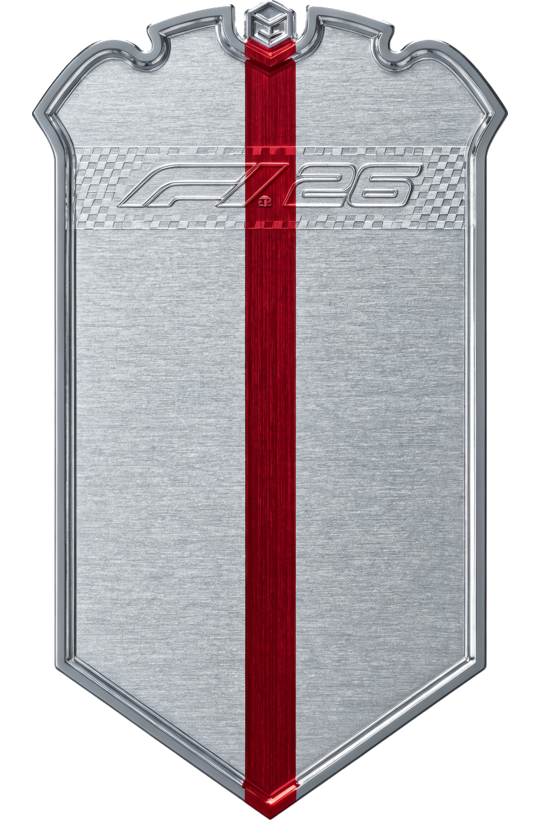
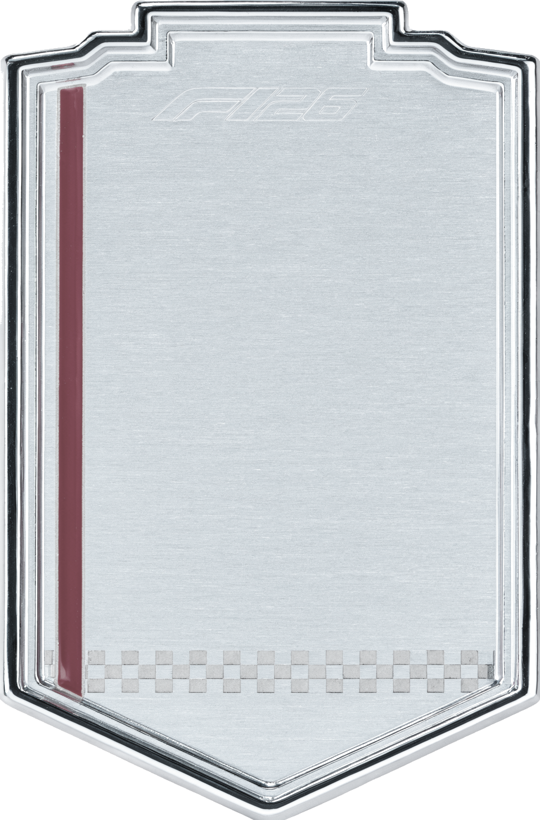
feat(cards,landing): distinct wide struck-metal plates, feather sweet-spot, multi-GOAT, landing lineup
- seven DISTINCT crest cuts (rounded/single-notch/twin-scallop/asymmetric/
  chamfer/crown/notched-crown), re-generated wide to fill the card width like
  the founder crest; correct alloys (copper bronze, true violet sector, cool
  platinum silver), ornate damask champion + subtle holo whisper, clean steel
- portrait feather sweet-spot (face+shoulders natural, no rectangle leak) and
  a per-ink contrast scrim behind the identity column so RTG/NO./flag/pill read
  cleanly on any plate art
- GOAT tier now honours multiple legends (torvalds ceiling 98 + gaearon/
  sindresorhus/antfu) via GOAT_LOGINS
- landing fan shows PewDiePie + NetworkChuck with real photo portraits
  (fetched from YouTube; GitHub avatars were logos/identicons)

diff --git a/components/DriverCard26.tsx b/components/DriverCard26.tsx
@@ -1,6 +1,6 @@
 import { useId } from "react";
 import type { CardPreview, StatKey } from "@/lib/racing/types";
-import { STATS, STAT_LABELS, GOAT_LOGIN } from "@/lib/racing/constants";
+import { STATS, STAT_LABELS, GOAT_LOGIN, GOAT_LOGINS } from "@/lib/racing/constants";
 import { resolveCardTheme, rgba } from "./finishTheme";
 import { flagUrl } from "@/lib/flagUrl";
 
@@ -58,9 +58,9 @@ function avatarFor(url: string): string {
   return url.replace(/([?&])s=\d+/, "$1s=640");
 }
 
-const FEATHER = "radial-gradient(ellipse 70% 84% at 52% 40%, #000 56%, transparent 88%)";
+const FEATHER = "radial-gradient(ellipse 70% 82% at 52% 40%, #000 54%, transparent 82%)";
 const FADE_TOP = "linear-gradient(to bottom, transparent 0%, #000 18%)";
-const FADE_BOTTOM = "linear-gradient(to bottom, #000 72%, transparent 100%)";
+const FADE_BOTTOM = "linear-gradient(to bottom, #000 76%, transparent 100%)";
 
 export function DriverCard26({ card, eager = false }: { card: CardPreview; eager?: boolean }) {
   const gid = useId().replace(/:/g, "");
@@ -71,10 +71,15 @@ export function DriverCard26({ card, eager = false }: { card: CardPreview; eager
   const nameSize = last.length > 11 ? 8.0 : last.length > 8 ? 9.8 : 11.0;
   const avatar = avatarFor(card.avatarUrl);
   const founder = card.finish === "founder" || !!card.founder;
-  const goat = !founder && (card.login.toLowerCase() === GOAT_LOGIN || (card.number === 1 && card.rtg >= 97));
+  const goat = !founder && (GOAT_LOGINS.includes(card.login.toLowerCase()) || card.login.toLowerCase() === GOAT_LOGIN || (card.number === 1 && card.rtg >= 97));
   const plate = founder ? { bg: FOUNDER_PLATE, ink: FOUNDER_INK } : goat ? GOAT_PLATE : (PLATES[card.finish] ?? PLATES.podium);
   const ink = plate.ink;
   const label = rgba(ink, 0.68);
+  // contrast scrim for the identity column: lift light ink with a dark wash,
+  // dark ink with a light wash, so the rating/flag read on any plate art.
+  const inkNum = parseInt(ink.replace("#", ""), 16);
+  const inkLum = (0.299 * ((inkNum >> 16) & 255) + 0.587 * ((inkNum >> 8) & 255) + 0.114 * (inkNum & 255)) / 255;
+  const scrimRGB = inkLum > 0.5 ? "0,0,0" : "255,255,255";
   const plateMask = `url("${plate.bg}")`;
   const clipId = `clip-${gid}`;
   const chip = goat ? "THE GOAT" : card.finishLabel;
@@ -86,7 +91,7 @@ export function DriverCard26({ card, eager = false }: { card: CardPreview; eager
           {/* eslint-disable-next-line @next/next/no-img-element */}
           <img src={avatar} alt={card.name} width={640} height={640} loading={eager ? "eager" : "lazy"} decoding="async" fetchPriority={eager ? "high" : "auto"}
             style={{ width: "100%", height: "100%", objectFit: "cover", objectPosition: "center 22%", filter: "saturate(1.12) contrast(1.06) brightness(1.03)" }} />
-          <div aria-hidden style={{ position: "absolute", inset: 0, background: `radial-gradient(ellipse 72% 76% at 52% 40%, transparent 46%, ${rgba(livery, 0.3)} 78%, rgba(58,46,22,0.42))` }} />
+          <div aria-hidden style={{ position: "absolute", inset: 0, background: `radial-gradient(ellipse 72% 78% at 52% 40%, transparent 46%, ${rgba(livery, 0.24)} 80%, rgba(58,46,22,0.36) 96%)` }} />
         </div>
       </div>
     </div>
@@ -116,6 +121,10 @@ export function DriverCard26({ card, eager = false }: { card: CardPreview; eager
       {!founder && (
         <div aria-hidden style={{ position: "absolute", inset: 0, background: livery, mixBlendMode: "color", opacity: 0.1, WebkitMaskImage: plateMask, maskImage: plateMask, WebkitMaskSize: "100% 100%", maskSize: "100% 100%" }} />
       )}
+
+      {/* soft contrast scrim behind the identity column so RTG/NO./flag/pill
+          read cleanly whatever the plate art carries underneath */}
+      <div aria-hidden style={{ position: "absolute", left: 0, top: 0, width: "30%", height: "52%", background: `linear-gradient(90deg, rgba(${scrimRGB},0.3) 0%, rgba(${scrimRGB},0.12) 62%, transparent 100%)`, WebkitMaskImage: plateMask, maskImage: plateMask, WebkitMaskSize: "100% 100%", maskSize: "100% 100%", zIndex: 2, pointerEvents: "none" }} />
 
       {/* portrait masked into the plate's alpha, feathered, full colour */}
       <div style={{ position: "absolute", inset: 0, WebkitMaskImage: plateMask, maskImage: plateMask, WebkitMaskSize: "100% 100%", maskSize: "100% 100%" }}>{portrait}</div>

diff --git a/lib/racing/samples.ts b/lib/racing/samples.ts
@@ -113,14 +113,26 @@ export const SAMPLE_CARDS: CardPreview[] = [
     finishLabel: "CHAMPION",
     constructor: { language: null, name: "JavaScript GP", code: "JS", color: "#f7df1e", ink: "#15161a" },
   },
+  {
+    login: "NetworkChuck",
+    name: "NetworkChuck",
+    avatarUrl: "/drivers/networkchuck.webp",
+    country: "us",
+    stats: { exp: 84, rac: 88, awa: 70, pac: 90, tyr: 78, wet: 82 },
+    rtg: 90,
+    number: 42,
+    finish: "champion",
+    finishLabel: "CHAMPION",
+    constructor: { language: null, name: "Python GP", code: "PY", color: "#4b8bbe", ink: "#ffffff" },
+  },
 ];
 
 // The four on the hero fan, front to back. The GOAT leads. Only single-subject
 // photographic headshots fan well — logos, collages and pet photos read as
 // broken portraits on the metal, so the shop window picks clean faces.
 export const FAN_CARDS: { card: CardPreview; label?: "GOAT" | "LEGEND" }[] = [
-  { card: SAMPLE_CARDS[7] },
-  { card: SAMPLE_CARDS[8] },
+  { card: SAMPLE_CARDS[1] },
+  { card: SAMPLE_CARDS[9] },
   { card: SAMPLE_CARDS[3], label: "LEGEND" },
   { card: SAMPLE_CARDS[0], label: "GOAT" },
 ];

diff --git a/lib/racing/constants.ts b/lib/racing/constants.ts
@@ -53,6 +53,9 @@ export const STAT_COPY: Record<StatKey, { what: string; scouted: string }> = {
 // The GOAT invariant: Torvalds is the ceiling at 98. Every other card is
 // capped at 95, which is also the founder's fixed rating.
 export const GOAT_LOGIN = "torvalds";
+// The GOAT tier honours multiple legends — Torvalds is the ceiling (98), the
+// rest of the pantheon shares the platinum crest below him.
+export const GOAT_LOGINS = ["torvalds", "gaearon", "sindresorhus", "antfu"];
 export const GOAT_RTG = 98;
 export const RIVAL_RTG_CAP = 95;
 
